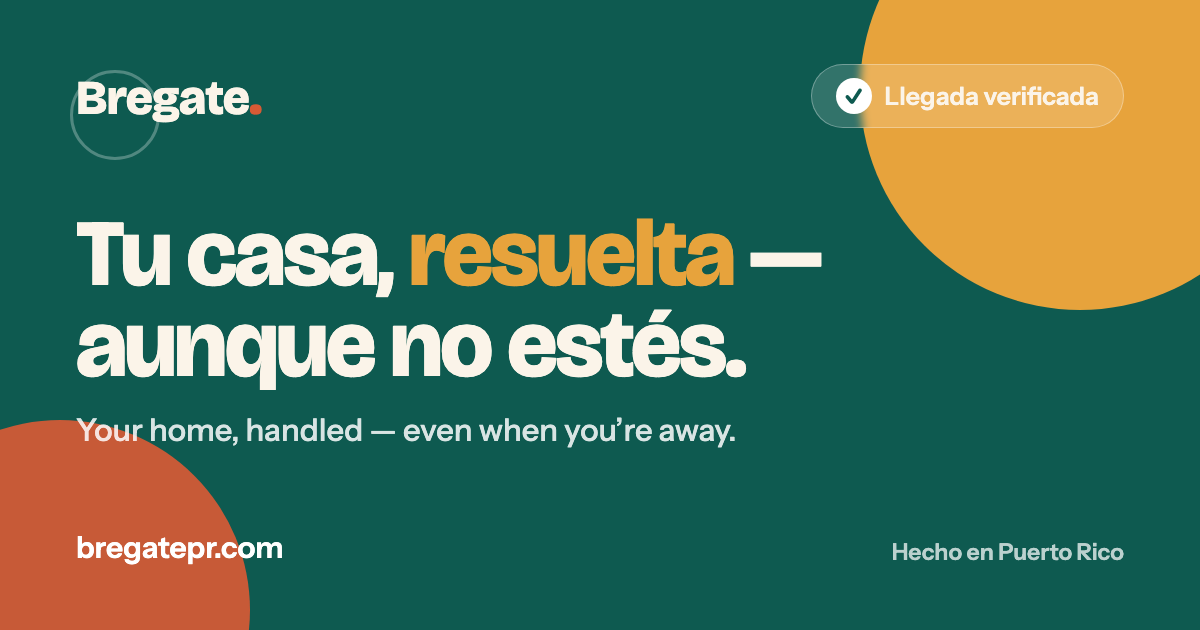
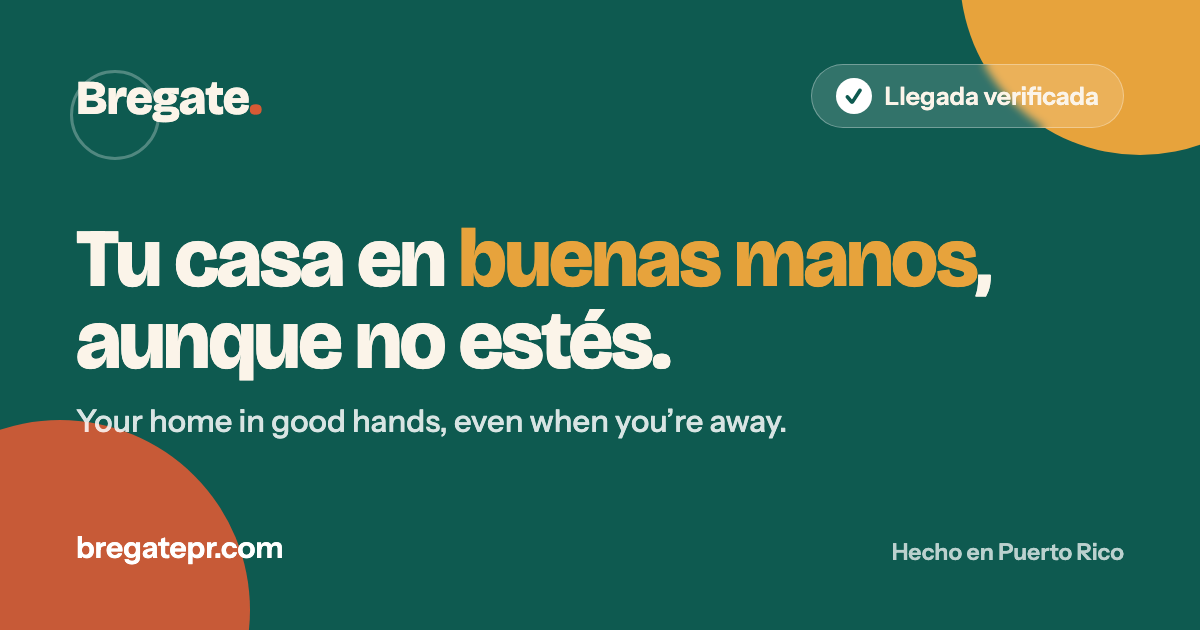
Tagline B (en buenas manos), remove all em dashes, new OG image

Changed region(s): [[0.0617, 0.0, 1.0, 0.5127], [0.0617, 0.4825, 0.6475, 0.6333], [0.0617, 0.6333, 0.6475, 0.7238]]

diff --git a/index.html b/index.html
@@ -5,8 +5,8 @@
 <meta name="viewport" content="width=device-width, initial-scale=1">
 
 <!-- Primary meta (Spanish default; switched to English by the language toggle / ?lang=en) -->
-<title>Bregate — Tu casa, resuelta, aunque no estés | Profesionales del hogar en Puerto Rico</title>
-<meta name="description" content="Bregate es la forma confiable de encontrar, contratar y supervisar a profesionales del hogar en Puerto Rico. Tú eliges al pro, agendas la visita y sigues el trabajo desde tu teléfono — con llegada verificada por GPS. En español e inglés.">
+<title>Bregate: Tu casa en buenas manos, aunque no estés | Profesionales del hogar en Puerto Rico</title>
+<meta name="description" content="Bregate es la forma confiable de encontrar, contratar y supervisar a profesionales del hogar en Puerto Rico. Tú eliges al pro, agendas la visita y sigues el trabajo desde tu teléfono, con llegada verificada por GPS. En español e inglés.">
 <meta name="keywords" content="profesionales del hogar Puerto Rico, plomero Puerto Rico, electricista Puerto Rico, contratistas Puerto Rico, servicios para el hogar, handyman Puerto Rico, reparaciones del hogar, mantenimiento Airbnb Puerto Rico, home services Puerto Rico, contractors Puerto Rico">
 <meta name="author" content="Bregate">
 <meta name="publisher" content="Bregate">
@@ -38,8 +38,8 @@
 <!-- Open Graph -->
 <meta property="og:type" content="website">
 <meta property="og:site_name" content="Bregate">
-<meta property="og:title" content="Bregate — Tu casa, resuelta, aunque no estés">
-<meta property="og:description" content="La forma confiable de encontrar, contratar y supervisar a profesionales del hogar en Puerto Rico — con llegada verificada por GPS.">
+<meta property="og:title" content="Bregate: Tu casa en buenas manos, aunque no estés">
+<meta property="og:description" content="La forma confiable de encontrar, contratar y supervisar a profesionales del hogar en Puerto Rico, con llegada verificada por GPS.">
 <meta property="og:url" content="https://bregatepr.com/">
 <meta property="og:locale" content="es_PR">
 <meta property="og:locale:alternate" content="en_US">
@@ -48,14 +48,14 @@
 <meta property="og:image:type" content="image/png">
 <meta property="og:image:width" content="1200">
 <meta property="og:image:height" content="630">
-<meta property="og:image:alt" content="Bregate — Tu casa, resuelta. Hecho en Puerto Rico.">
+<meta property="og:image:alt" content="Bregate: Tu casa en buenas manos. Hecho en Puerto Rico.">
 
 <!-- Twitter / X -->
 <meta name="twitter:card" content="summary_large_image">
-<meta name="twitter:title" content="Bregate — Tu casa, resuelta, aunque no estés">
-<meta name="twitter:description" content="La forma confiable de contratar profesionales del hogar en Puerto Rico — con llegada verificada por GPS.">
+<meta name="twitter:title" content="Bregate: Tu casa en buenas manos, aunque no estés">
+<meta name="twitter:description" content="La forma confiable de contratar profesionales del hogar en Puerto Rico, con llegada verificada por GPS.">
 <meta name="twitter:image" content="https://bregatepr.com/og-image.png">
-<meta name="twitter:image:alt" content="Bregate — Tu casa, resuelta.">
+<meta name="twitter:image:alt" content="Bregate: Tu casa en buenas manos.">
 
 <!-- Icons & manifest -->
 <link rel="icon" href="/favicon.svg" type="image/svg+xml">
@@ -79,8 +79,8 @@
       "url": "https://bregatepr.com/",
       "logo": "https://bregatepr.com/icon-512.png",
       "image": "https://bregatepr.com/og-image.png",
-      "slogan": "Tu casa, resuelta.",
-      "description": "Bregate es la forma confiable de encontrar, contratar y supervisar a profesionales del hogar en Puerto Rico, con llegada verificada por GPS y traducción automática español–inglés.",
+      "slogan": "Tu casa en buenas manos.",
+      "description": "Bregate es la forma confiable de encontrar, contratar y supervisar a profesionales del hogar en Puerto Rico, con llegada verificada por GPS y traducción automática español e inglés.",
       "areaServed": { "@type": "AdministrativeArea", "name": "Puerto Rico" },
       "knowsLanguage": ["es-PR", "en-US"],
       "sameAs": []
@@ -97,7 +97,7 @@
     {
       "@type": "Service",
       "@id": "https://bregatepr.com/#service",
-      "name": "Bregate — Marketplace de servicios para el hogar",
+      "name": "Bregate: Marketplace de servicios para el hogar",
       "serviceType": "Home services marketplace",
       "provider": { "@id": "https://bregatepr.com/#organization" },
       "areaServed": { "@type": "AdministrativeArea", "name": "Puerto Rico" },
@@ -109,7 +109,7 @@
       "@type": "WebPage",
       "@id": "https://bregatepr.com/#webpage",
       "url": "https://bregatepr.com/",
-      "name": "Bregate — Tu casa, resuelta, aunque no estés",
+      "name": "Bregate: Tu casa en buenas manos, aunque no estés",
       "isPartOf": { "@id": "https://bregatepr.com/#website" },
       "about": { "@id": "https://bregatepr.com/#organization" },
       "inLanguage": "es-PR",
@@ -162,8 +162,8 @@
         <span style="width:7px; height:7px; border-radius:50%; background:var(--terra); display:inline-block;"></span>
         <span data-i18n="hero.badge">Hecho en Puerto Rico</span>
       </div>
-      <h1 data-i18n="hero.title" style="font-family:'Bricolage Grotesque',sans-serif; font-weight:800; font-size:clamp(40px,5.2vw,68px); line-height:1.02; letter-spacing:-.03em; margin:0 0 22px;">Tu casa, <span style="color:var(--teal);">resuelta</span> — aunque no estés.</h1>
-      <p data-i18n="hero.sub" style="font-size:19px; line-height:1.55; color:var(--ink2); max-width:520px; margin:0 0 32px; text-wrap:pretty;">Bregate es la forma confiable de encontrar, contratar y supervisar a profesionales del hogar en Puerto Rico. Tú eliges al pro, agendas la visita y sigues el trabajo desde tu teléfono — con prueba real de que llegaron.</p>
+      <h1 data-i18n="hero.title" style="font-family:'Bricolage Grotesque',sans-serif; font-weight:800; font-size:clamp(40px,5.2vw,68px); line-height:1.02; letter-spacing:-.03em; margin:0 0 22px;">Tu casa en <span style="color:var(--teal);">buenas manos</span>, aunque no estés.</h1>
+      <p data-i18n="hero.sub" style="font-size:19px; line-height:1.55; color:var(--ink2); max-width:520px; margin:0 0 32px; text-wrap:pretty;">Bregate es la forma confiable de encontrar, contratar y supervisar a profesionales del hogar en Puerto Rico. Tú eliges al pro, agendas la visita y sigues el trabajo desde tu teléfono, con prueba real de que llegaron.</p>
       <div style="display:flex; gap:14px; flex-wrap:wrap;">
         <a href="#como" data-i18n="hero.cta1" style="font-size:16px; font-weight:600; color:var(--cream); background:var(--ink); padding:14px 26px; border-radius:999px; text-decoration:none;">Cómo funciona</a>
         <a href="#pros" data-i18n="hero.cta2" style="font-size:16px; font-weight:600; color:var(--ink); background:transparent; border:1.5px solid var(--ink); padding:14px 26px; border-radius:999px; text-decoration:none;">Soy profesional</a>
@@ -223,7 +223,7 @@
   <section id="como" style="max-width:1200px; margin:0 auto; padding:80px 32px 40px;">
     <div style="max-width:760px; margin-bottom:44px;">
       <div data-i18n="how.kicker" style="font-size:14px; font-weight:700; letter-spacing:.12em; text-transform:uppercase; color:var(--terra-d); margin-bottom:16px;">Cómo funciona</div>
-      <h2 data-i18n="how.title" style="font-family:'Bricolage Grotesque',sans-serif; font-weight:700; font-size:clamp(30px,3.6vw,46px); line-height:1.08; letter-spacing:-.02em; margin:0; text-wrap:balance;">Eliges, agendas y sigues el trabajo — desde donde estés.</h2>
+      <h2 data-i18n="how.title" style="font-family:'Bricolage Grotesque',sans-serif; font-weight:700; font-size:clamp(30px,3.6vw,46px); line-height:1.08; letter-spacing:-.02em; margin:0; text-wrap:balance;">Eliges, agendas y sigues el trabajo, desde donde estés.</h2>
     </div>
 
     <!-- steps 1-3 -->
@@ -231,7 +231,7 @@
       <div style="background:var(--paper); border:1px solid var(--line); border-radius:20px; padding:28px 26px;">
         <div style="width:40px; height:40px; border-radius:50%; background:var(--ink); color:var(--cream); display:grid; place-items:center; font-family:'Bricolage Grotesque',sans-serif; font-weight:800; font-size:18px; margin-bottom:18px;">1</div>
         <h3 data-i18n="how.s1t" style="font-family:'Bricolage Grotesque',sans-serif; font-weight:700; font-size:20px; margin:0 0 10px; letter-spacing:-.01em;">Busca al pro indicado</h3>
-        <p data-i18n="how.s1b" style="margin:0; font-size:15.5px; line-height:1.55; color:var(--ink2);">Explora profesionales por oficio: ves su calificación, reseñas reales, tarifas y credenciales — y a qué distancia están, aunque puedes contratar a quien quieras.</p>
+        <p data-i18n="how.s1b" style="margin:0; font-size:15.5px; line-height:1.55; color:var(--ink2);">Explora profesionales por oficio: ves su calificación, reseñas reales, tarifas y credenciales, y a qué distancia están, aunque puedes contratar a quien quieras.</p>
       </div>
       <div style="background:var(--paper); border:1px solid var(--line); border-radius:20px; padding:28px 26px;">
         <div style="width:40px; height:40px; border-radius:50%; background:var(--ink); color:var(--cream); display:grid; place-items:center; font-family:'Bricolage Grotesque',sans-serif; font-weight:800; font-size:18px; margin-bottom:18px;">2</div>
@@ -241,7 +241,7 @@
       <div style="background:var(--paper); border:1px solid var(--line); border-radius:20px; padding:28px 26px;">
         <div style="width:40px; height:40px; border-radius:50%; background:var(--ink); color:var(--cream); display:grid; place-items:center; font-family:'Bricolage Grotesque',sans-serif; font-weight:800; font-size:18px; margin-bottom:18px;">3</div>
         <h3 data-i18n="how.s3t" style="font-family:'Bricolage Grotesque',sans-serif; font-weight:700; font-size:20px; margin:0 0 10px; letter-spacing:-.01em;">Agenda la visita</h3>
-        <p data-i18n="how.s3b" style="margin:0; font-size:15.5px; line-height:1.55; color:var(--ink2);">Elige la propiedad y el momento — lo antes posible o un día y hora exactos. La ves en el mapa y confirmas.</p>
+        <p data-i18n="how.s3b" style="margin:0; font-size:15.5px; line-height:1.55; color:var(--ink2);">Elige la propiedad y el momento, lo antes posible o un día y hora exactos. La ves en el mapa y confirmas.</p>
       </div>
     </div>
 
@@ -253,7 +253,7 @@
           <span data-i18n="how.s4tag" style="color:#fff; font-size:13px; font-weight:700; letter-spacing:.08em; text-transform:uppercase;">El sello de confianza</span>
         </div>
         <h3 data-i18n="how.s4t" style="font-family:'Bricolage Grotesque',sans-serif; font-weight:700; font-size:clamp(26px,3vw,36px); line-height:1.05; letter-spacing:-.02em; color:#fff; margin:0 0 14px;">La visita verificada</h3>
-        <p data-i18n="how.s4b" style="margin:0; font-size:17px; line-height:1.55; color:rgba(255,255,255,.9); max-width:560px; text-wrap:pretty;">Aquí Bregate se gana tu confianza. El pro marca «voy en camino» y lo ves moverse en el mapa. Al llegar, la app confirma con la ubicación del teléfono que de verdad está en tu propiedad — no algo que se finge desde el sofá.</p>
+        <p data-i18n="how.s4b" style="margin:0; font-size:17px; line-height:1.55; color:rgba(255,255,255,.9); max-width:560px; text-wrap:pretty;">Aquí Bregate se gana tu confianza. El pro marca «voy en camino» y lo ves moverse en el mapa. Al llegar, la app confirma con la ubicación del teléfono que de verdad está en tu propiedad, no algo que se finge desde el sofá.</p>
       </div>
       <div style="position:relative; height:200px;">
         <div style="position:absolute; right:0; top:50%; transform:translateY(-50%); width:200px; height:200px; border-radius:50%; background:var(--gold); opacity:.9;"></div>
@@ -268,7 +268,7 @@
       <div style="background:var(--paper); border:1px solid var(--line); border-radius:20px; padding:28px 26px;">
         <div style="width:40px; height:40px; border-radius:50%; background:var(--ink); color:var(--cream); display:grid; place-items:center; font-family:'Bricolage Grotesque',sans-serif; font-weight:800; font-size:18px; margin-bottom:18px;">5</div>
         <h3 data-i18n="how.s5t" style="font-family:'Bricolage Grotesque',sans-serif; font-weight:700; font-size:20px; margin:0 0 10px; letter-spacing:-.01em;">Confirma y reseña</h3>
-        <p data-i18n="how.s5b" style="margin:0; font-size:15.5px; line-height:1.55; color:var(--ink2);">Al terminar, confirmas que todo salió bien y dejas tu reseña. Como está atada a una visita verificada real, tiene peso — no es un comentario anónimo de quién sabe dónde.</p>
+        <p data-i18n="how.s5b" style="margin:0; font-size:15.5px; line-height:1.55; color:var(--ink2);">Al terminar, confirmas que todo salió bien y dejas tu reseña. Como está atada a una visita verificada real, tiene peso, no es un comentario anónimo de quién sabe dónde.</p>
       </div>
       <div style="background:var(--paper); border:1px solid var(--line); border-radius:20px; padding:28px 26px;">
         <div style="width:40px; height:40px; border-radius:50%; background:var(--ink); color:var(--cream); display:grid; place-items:center; font-family:'Bricolage Grotesque',sans-serif; font-weight:800; font-size:18px; margin-bottom:18px;">6</div>
@@ -317,8 +317,8 @@
   <!-- CLOSING / FOOTER -->
   <footer id="avisame" style="background:var(--ink); color:var(--cream);">
     <div style="max-width:1000px; margin:0 auto; padding:90px 32px 40px; text-align:center;">
-      <h2 data-i18n="foot.title" style="font-family:'Bricolage Grotesque',sans-serif; font-weight:800; font-size:clamp(40px,6vw,76px); line-height:1; letter-spacing:-.03em; margin:0 0 20px;">Tu casa, resuelta.</h2>
-      <p data-i18n="foot.sub" style="font-size:19px; line-height:1.55; color:rgba(251,244,233,.78); max-width:600px; margin:0 auto 36px; text-wrap:pretty;">La forma confiable de resolver el hogar en Puerto Rico — aunque no estés ahí para verlo. Sin spam, sin adivinar, sin barrera de idioma.</p>
+      <h2 data-i18n="foot.title" style="font-family:'Bricolage Grotesque',sans-serif; font-weight:800; font-size:clamp(40px,6vw,76px); line-height:1; letter-spacing:-.03em; margin:0 0 20px;">Tu casa en buenas manos.</h2>
+      <p data-i18n="foot.sub" style="font-size:19px; line-height:1.55; color:rgba(251,244,233,.78); max-width:600px; margin:0 auto 36px; text-wrap:pretty;">La forma confiable de resolver el hogar en Puerto Rico, aunque no estés ahí para verlo. Sin spam, sin adivinar, sin barrera de idioma.</p>
       <form id="breg-form" aria-label="Avísame del lanzamiento" style="display:flex; gap:10px; justify-content:center; flex-wrap:wrap; margin-bottom:18px;">
         <label for="breg-email" style="position:absolute; width:1px; height:1px; padding:0; margin:-1px; overflow:hidden; clip:rect(0 0 0 0); white-space:nowrap; border:0;" data-i18n="foot.emaillabel">Correo electrónico</label>
         <input id="breg-email" type="email" name="email" autocomplete="email" required aria-required="true" placeholder="[email redacted]" style="font-family:inherit; font-size:16px; padding:14px 20px; border-radius:999px; border:1px solid rgba(251,244,233,.25); background:rgba(251,244,233,.06); color:var(--cream); width:300px; max-width:100%; outline:none;">
@@ -348,8 +348,8 @@
     'nav.pros': 'For pros',
     'nav.cta': 'Notify me at launch',
     'hero.badge': 'Made in Puerto Rico',
-    'hero.title': 'Your home, <span style="color:var(--teal);">handled</span> — even when you\'re away.',
-    'hero.sub': "Bregate is the trustworthy way to find, hire, and oversee home-service pros in Puerto Rico. You pick the pro, schedule the visit, and follow the job from your phone — with real proof they showed up.",
+    'hero.title': 'Your home in <span style="color:var(--teal);">good hands</span>, even when you\'re away.',
+    'hero.sub': "Bregate is the trustworthy way to find, hire, and oversee home-service pros in Puerto Rico. You pick the pro, schedule the visit, and follow the job from your phone, with real proof they showed up.",
     'hero.cta1': 'How it works',
     'hero.cta2': "I'm a pro",
     'hero.stamp': 'Arrival verified',
@@ -366,18 +366,18 @@
     'prob.c3b': "You're a busy local homeowner. No time to chase a good plumber and pray they show up.",
     'prob.foot': 'The usual options sell your number to a pile of contractors who flood you with calls. <strong style="color:var(--terra-d);">Bregate removes that anxiety.</strong>',
     'how.kicker': 'How it works',
-    'how.title': 'Choose, schedule, and follow the job — from anywhere.',
+    'how.title': 'Choose, schedule, and follow the job, from anywhere.',
     'how.s1t': 'Find the right pro',
-    'how.s1b': 'Browse pros by trade: see ratings, real reviews, rates, and credentials — plus how far they are, though you can hire anyone you like.',
+    'how.s1b': 'Browse pros by trade: see ratings, real reviews, rates, and credentials, plus how far they are, though you can hire anyone you like.',
     'how.s2t': 'Message them in your language',
     'how.s2b': 'Chat before committing. Messages auto-translate: you write in Spanish, the pro in English, and each of you reads in your own language.',
     'how.s3t': 'Book a time',
-    'how.s3b': 'Pick the property and the time — as soon as possible or an exact day and hour. See it on the map and confirm.',
+    'how.s3b': 'Pick the property and the time, as soon as possible or an exact day and hour. See it on the map and confirm.',
     'how.s4tag': 'The trust hallmark',
     'how.s4t': 'The verified visit',
-    'how.s4b': "Here's where Bregate earns trust. The pro marks “on my way” and you watch them move on the map. On arrival, the app confirms with the phone's location that they're genuinely at your property — not faked from the couch.",
+    'how.s4b': "Here's where Bregate earns trust. The pro marks “on my way” and you watch them move on the map. On arrival, the app confirms with the phone's location that they're genuinely at your property, not faked from the couch.",
     'how.s5t': 'Confirm and review',
-    'how.s5b': "When it's done, you confirm everything went well and leave a review. Because it's tied to a real verified visit, it carries weight — not an anonymous comment from who-knows-where.",
+    'how.s5b': "When it's done, you confirm everything went well and leave a review. Because it's tied to a real verified visit, it carries weight, not an anonymous comment from who-knows-where.",
     'how.s6t': 'If something goes wrong',
     'how.s6b': "No-show, or the work wasn't right? Raise a dispute inside the app. You're never left on your own.",
     'how.emerglabel': 'Emergency',
@@ -386,12 +386,12 @@
     'pros.title': 'Real bookings. Honest reputation. Zero junk leads.',
     'pros.body': "Bregate is one app with two sides; the pro flips into “work mode.” Build your profile with your trades, rates, and credentials, and receive bookings and messages directly.",
     'pros.tagline': 'The promise is simple: real bookings, an honest reputation system, and no getting nickel-and-dimed for leads that go nowhere.',
-    'pros.p1': 'Direct bookings and messages from customers — no middlemen.',
+    'pros.p1': 'Direct bookings and messages from customers, no middlemen.',
     'pros.p2': "An “on-call” switch for emergencies only: turn it off and you stop getting urgent jobs, but still receive normal bookings.",
     'pros.p3': 'Guides you through every job: on my way → arrived → completed, with verified arrival.',
     'pros.p4': 'Build a track record of verified visits and genuine reviews. A reputation that’s hard to fake.',
-    'foot.title': 'Your home, handled.',
-    'foot.sub': "The trustworthy way to get home work done in Puerto Rico — even when you're not there to watch. No spam, no guessing, no language barrier.",
+    'foot.title': 'Your home in good hands.',
+    'foot.sub': "The trustworthy way to get home work done in Puerto Rico, even when you're not there to watch. No spam, no guessing, no language barrier.",
     'foot.cta': 'Notify me at launch',
     'foot.emaillabel': 'Email address',
     'foot.status': 'In the final steps before public launch.',
@@ -402,20 +402,20 @@
   var ES = {};
   root.querySelectorAll('[data-i18n]').forEach(function (el) { ES[el.dataset.i18n] = el.innerHTML; });
 
-  // SEO metadata per language — keeps the <head> + URL in sync with the toggle.
+  // SEO metadata per language, keeps the <head> + URL in sync with the toggle.
   var SEO = {
     es: {
-      title: 'Bregate — Tu casa, resuelta, aunque no estés | Profesionales del hogar en Puerto Rico',
-      desc: 'Bregate es la forma confiable de encontrar, contratar y supervisar a profesionales del hogar en Puerto Rico. Tú eliges al pro, agendas la visita y sigues el trabajo desde tu teléfono — con llegada verificada por GPS.',
-      ogTitle: 'Bregate — Tu casa, resuelta, aunque no estés',
-      ogDesc: 'La forma confiable de contratar profesionales del hogar en Puerto Rico — con llegada verificada por GPS.',
+      title: 'Bregate: Tu casa en buenas manos, aunque no estés | Profesionales del hogar en Puerto Rico',
+      desc: 'Bregate es la forma confiable de encontrar, contratar y supervisar a profesionales del hogar en Puerto Rico. Tú eliges al pro, agendas la visita y sigues el trabajo desde tu teléfono, con llegada verificada por GPS.',
+      ogTitle: 'Bregate: Tu casa en buenas manos, aunque no estés',
+      ogDesc: 'La forma confiable de contratar profesionales del hogar en Puerto Rico, con llegada verificada por GPS.',
       locale: 'es_PR', url: 'https://bregatepr.com/'
     },
     en: {
-      title: "Bregate — Your home, handled, even when you're away | Home-service pros in Puerto Rico",
-      desc: "Bregate is the trustworthy way to find, hire, and oversee home-service pros in Puerto Rico. Pick the pro, schedule the visit, and follow the job from your phone — with GPS-verified arrival.",
-      ogTitle: "Bregate — Your home, handled, even when you're away",
-      ogDesc: 'The trustworthy way to hire home-service pros in Puerto Rico — with GPS-verified arrival.',
+      title: "Bregate: Your home in good hands, even when you're away | Home-service pros in Puerto Rico",
+      desc: "Bregate is the trustworthy way to find, hire, and oversee home-service pros in Puerto Rico. Pick the pro, schedule the visit, and follow the job from your phone, with GPS-verified arrival.",
+      ogTitle: "Bregate: Your home in good hands, even when you're away",
+      ogDesc: 'The trustworthy way to hire home-service pros in Puerto Rico, with GPS-verified arrival.',
       locale: 'en_US', url: 'https://bregatepr.com/?lang=en'
     }
   };

diff --git a/404.html b/404.html
@@ -3,7 +3,7 @@
 <head>
 <meta charset="utf-8">
 <meta name="viewport" content="width=device-width, initial-scale=1">
-<title>Página no encontrada — Bregate</title>
+<title>Página no encontrada · Bregate</title>
 <meta name="robots" content="noindex, follow">
 <meta name="theme-color" content="#0E5A50">
 <link rel="icon" href="/favicon.svg" type="image/svg+xml">
@@ -28,7 +28,7 @@
     <p class="code">404</p>
     <h1>Esta página no existe.</h1>
     <p>Puede que el enlace esté roto o que la página se haya movido.</p>
-    <p class="en">This page doesn’t exist — the link may be broken or moved.</p>
+    <p class="en">This page doesn’t exist. The link may be broken or moved.</p>
     <a href="/">Volver al inicio · Back home</a>
     <div class="brand">Bregate<span>.</span></div>
   </main>